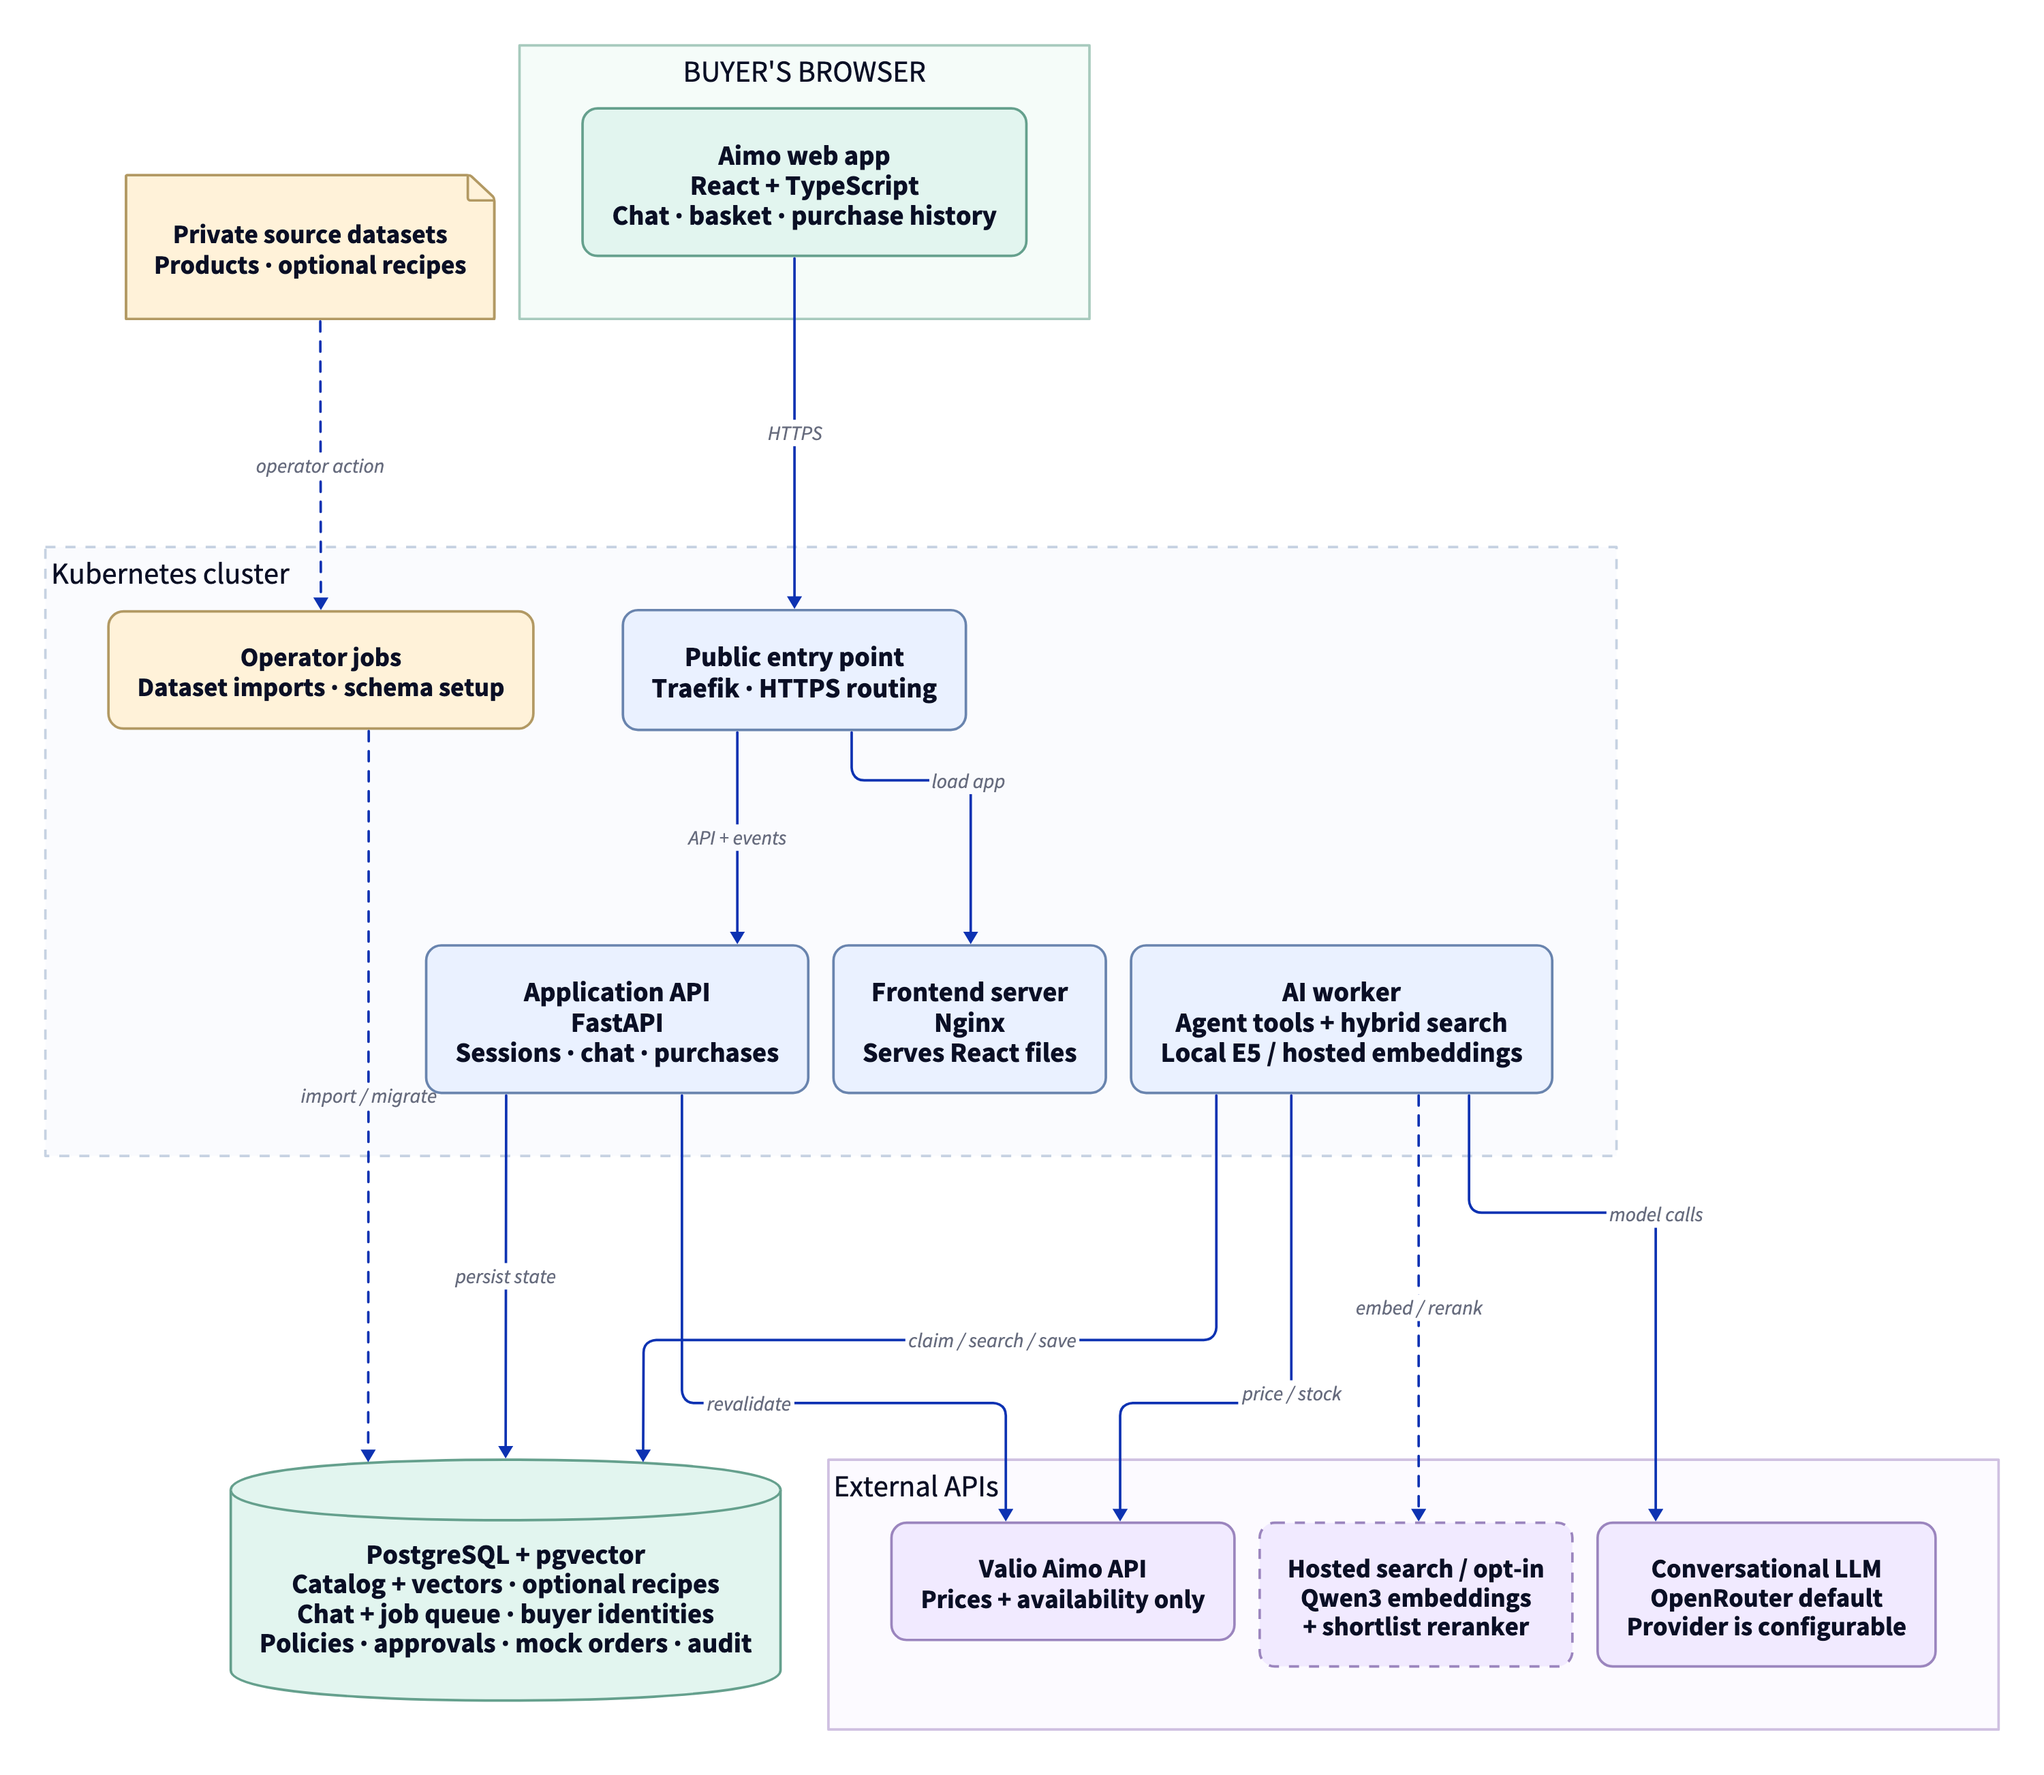
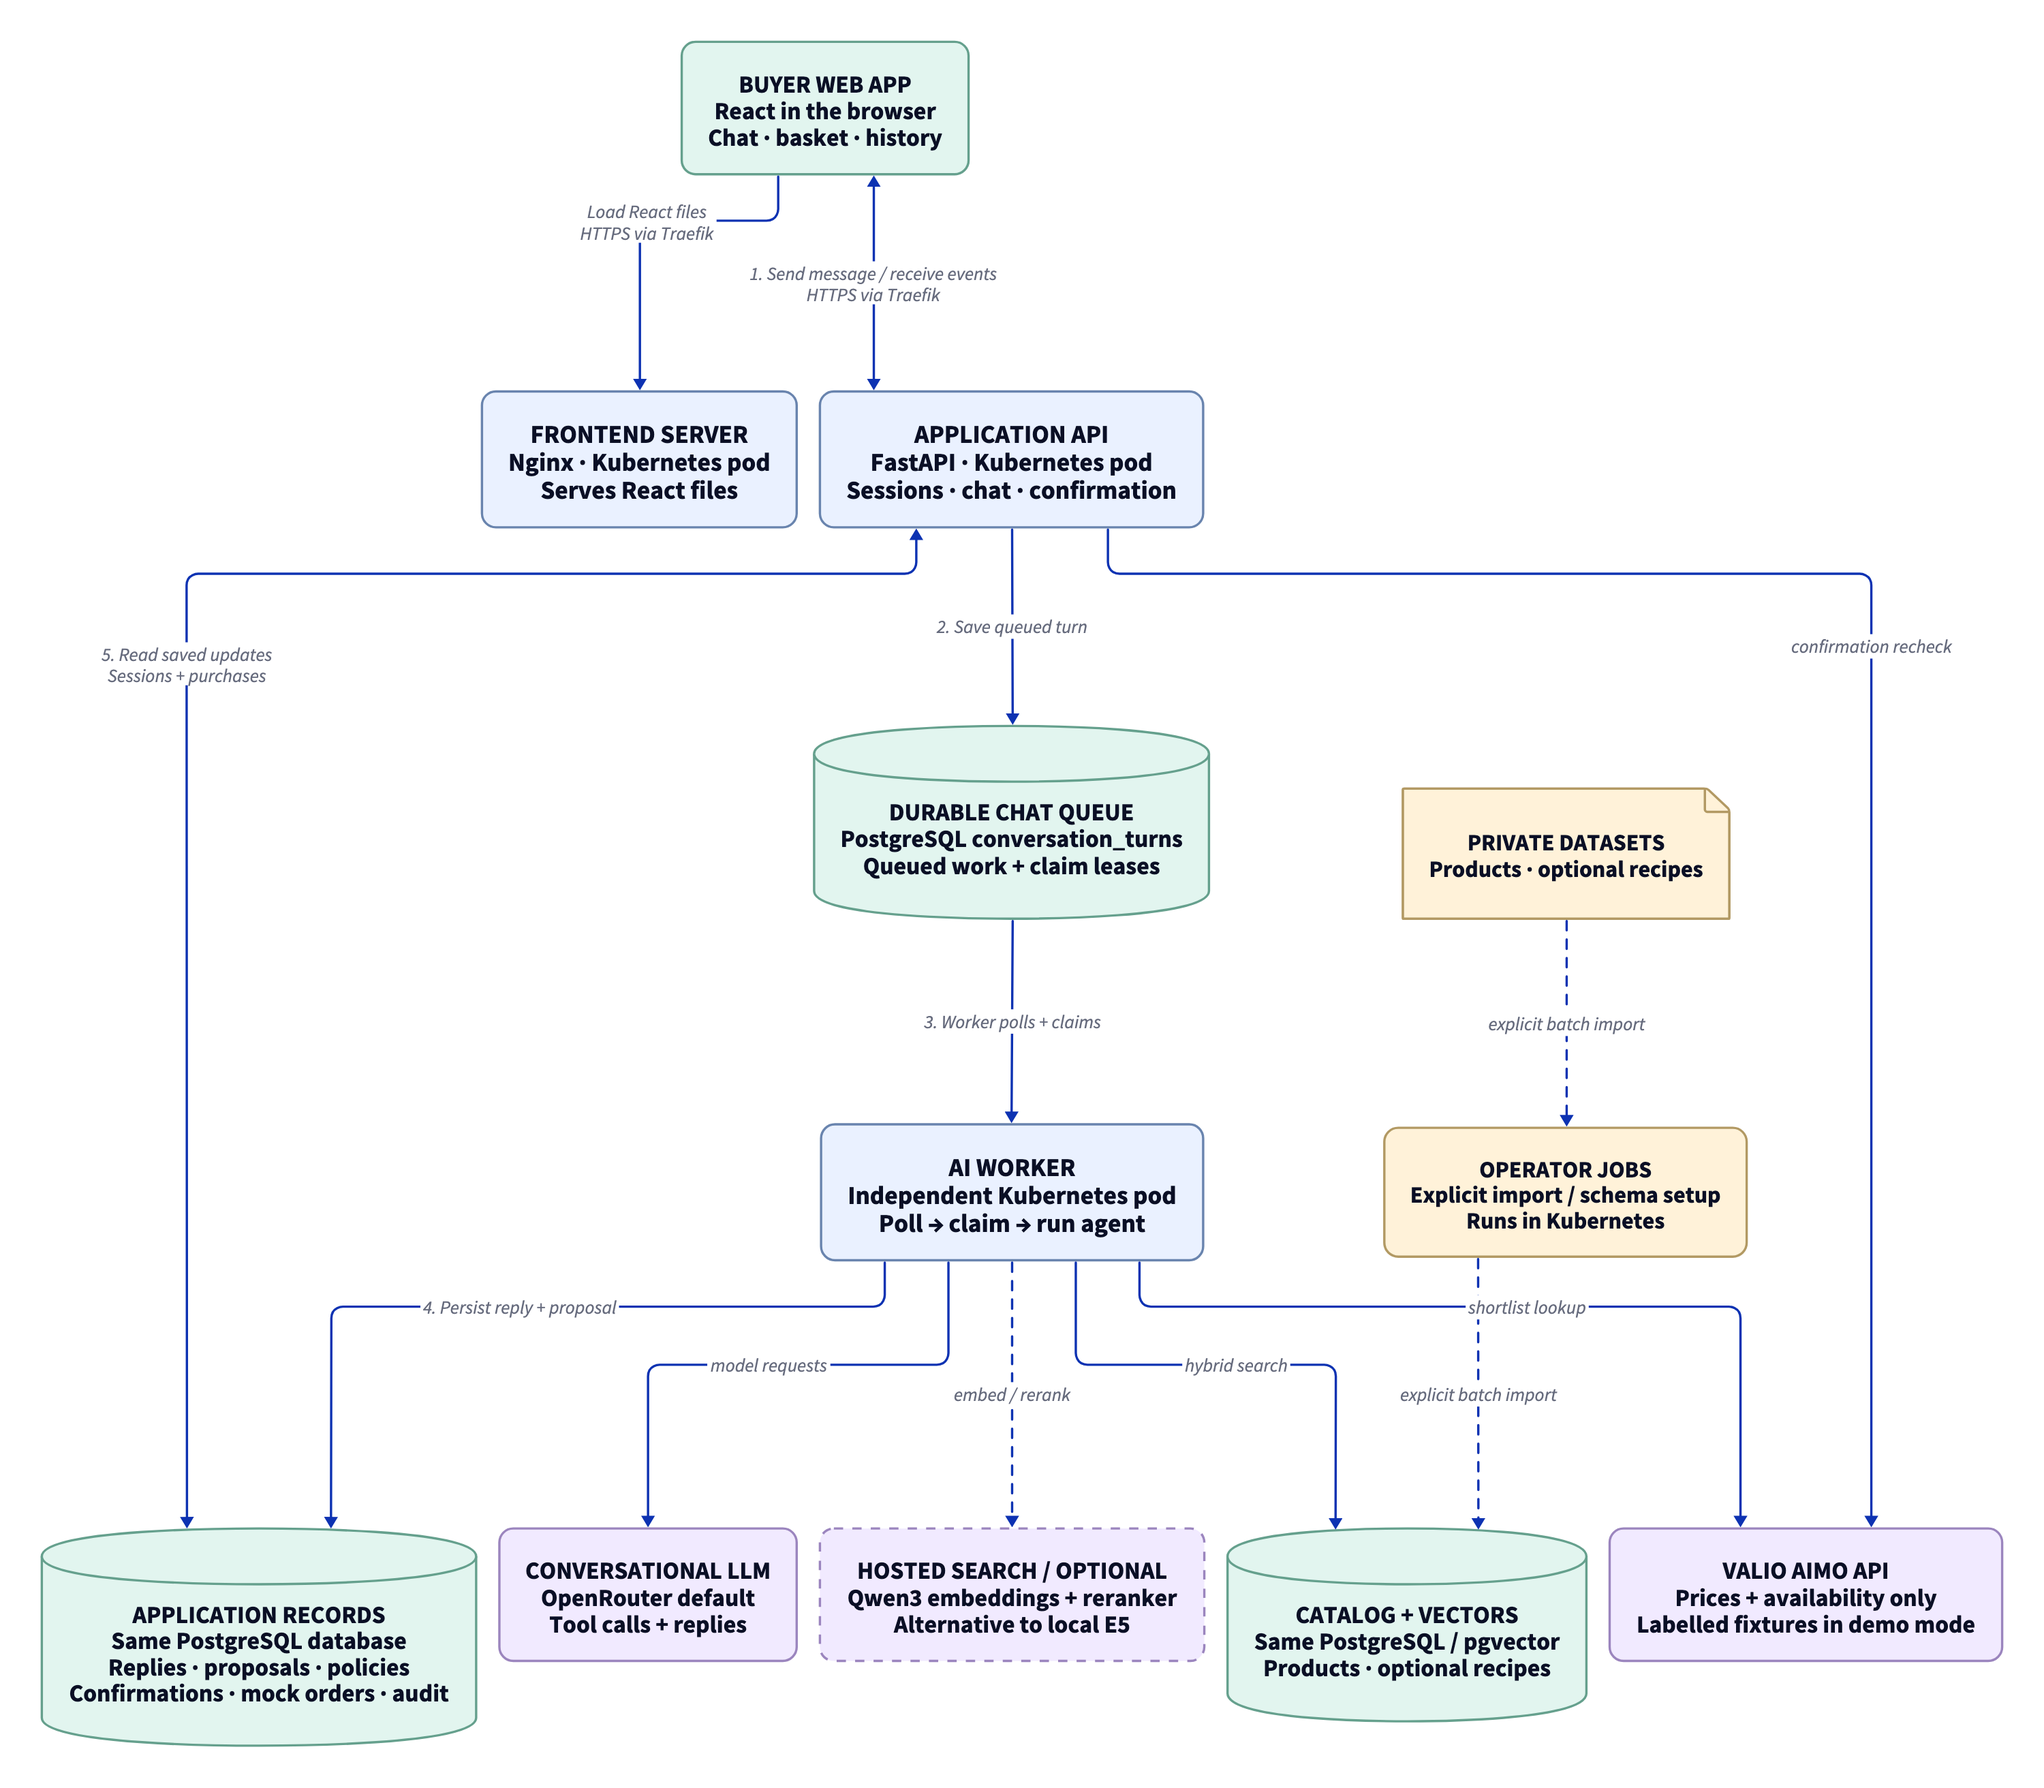
docs: make queue trigger and worker result delivery explicit

diff --git a/docs/diagrams/README.md b/docs/diagrams/README.md
@@ -29,6 +29,12 @@ Detailed contracts remain in [architecture.md](../architecture.md).
   Traefik routes HTTPS to Nginx or the FastAPI API. These are distinct responsibilities.
 - Blue: application components. Green: people, data and persisted results. Purple:
   external AI/supplier providers. Gold: deterministic purchasing checks.
+- The numbered path is buyer → API → saved PostgreSQL turn → polling worker → saved reply
+  → API → browser. The worker is continuously running: it polls for work, rather than
+  receiving a direct API call. It waits one second after an empty poll.
+- The frontend server, API and worker are separate workloads in the same Kubernetes
+  cluster. The green stores are logical areas of one managed PostgreSQL database
+  outside that cluster, not three databases.
 - PostgreSQL is both the application database and durable job queue. It also stores
   catalog/recipe vectors, policies, confirmations, mock orders and audit history.
 - The worker can use local E5 embeddings; hosted search and recipe planning require

diff --git a/docs/architecture.md b/docs/architecture.md
@@ -20,6 +20,13 @@ below. [Edit the diagrams with free D2](diagrams/README.md).
 
 ![Full system architecture](diagrams/architecture.svg)
 
+The buyer message creates the work: the API persists a queued turn; the continuously
+running worker polls PostgreSQL, claims a turn, and executes the agent. It saves its
+reply/proposal in PostgreSQL. The API reads saved state and delivers updates to the
+browser via SSE. The API does not invoke the worker directly. The diagram’s green
+stores are logical areas of one external managed database; blue workloads share the
+Kubernetes cluster.
+
 ### Agent harness and purchase authority
 
 [Editable D2 source](diagrams/harness.d2) · [Full-size SVG](diagrams/harness.svg) · [PNG](diagrams/harness.png)
